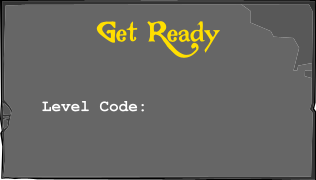
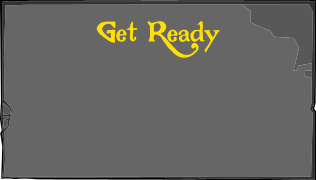
update

Changed region(s): [[0.1139, 0.5556, 0.2848, 0.6389], [0.3133, 0.5556, 0.4557, 0.6389]]

diff --git a/js/boot.js b/js/boot.js
@@ -18,3 +18,97 @@ var level = 1;
 var get_ready;
 var backgroundImage;
 var score = 0;
+const Level_Codes = 
+[
+'l3VIFNXL6O0',
+'l1GDCJTH4BU',
+'lDIIBX80DTS',
+'lZ4DJKCGM46',
+'lY8BUJAAHML',
+'l3DQ84AHPJ2',
+'lUATCLAZHAU',
+'lKPU91XGSMG',
+'lXPQ5V9CO5S',
+'lPXAA197342',
+'lUZLUV05WJ5',
+'lIHFREW7HFB',
+'l8I1NH0NLMS',
+'lL0LOD3SNZQ',
+'lV9HLCQJW0Z',
+'lWVJKG7WORV',
+'lGE5EEHX239',
+'lB9Z887UJ0P',
+'l2GYU2W1AKA',
+'lCFF6Z4PWAQ',
+'lS3F44JY4LG',
+'lMCY5EP0UDX',
+'lSVIXSLLG49',
+'l6PEUSYSJ3I',
+'lU6I3685MLA',
+'lA99B9759UZ',
+'lI6BN8BHK5E',
+'lLWB65SAYF1',
+'lRVWMYMRB4F',
+'l2VRIKKRJXL',
+'l6R96LV6DI4',
+'lZF72GXQZNZ',
+'l65EZUDIEPY',
+'lDA13UNFJIA',
+'lM55VJPWZXS',
+'l2BYN8X5WMB',
+'l477S23DCHQ',
+'lKZREX9NC48',
+'lT54PBR00R0',
+'lAMWC2NCB6O',
+'lECB7Q1YR31',
+'lIX4WJ175Q7',
+'lLH0I4E6BUP',
+'lK4W7EY3F3I',
+'l5Z5IV6Q7GE',
+'lJX9RNBGA9Y',
+'lY86UHYAJ5R',
+'l2G30XY0ZTZ',
+'lCFE5W9IQIP',
+'lIPJPM2J8DG',
+'lPBUTYDDH4Z',
+'lVS1P2DSMGY',
+'lRAKL3OBAHV',
+'lGKVTIJSUSR',
+'lNA5DFCGCME',
+'lPG3EV7U2KG',
+'lLG0Z00AF28',
+'lC2M94DQVTL',
+'lMDYO005UQ6',
+'l7NMKJOJ2UG',
+'lJ3ZAHFIEC8',
+'lRW5KJ9IBE2',
+'l38J7PF4HZO',
+'l40GRJBNOV2',
+'lE5SUVG3LY4',
+'lD4FBOJDP3F',
+'lVOIFB8UYQQ',
+'lBOB1L58LEI',
+'lV84THCBUN9',
+'l9P8JTWVPEM',
+'lMGQPWHO4VO',
+'lV051W4XM7C',
+'lR6LFWJE51K',
+'lR4GDSNGVH3',
+'lALPXUSWXCB',
+'l4IFHR3HVVH',
+'lSDMMDWK2A1',
+'lNN80D14B8D',
+'lDDACAL94S9',
+'lVEBAZGWPGN',
+'l8Y8HTQM86I',
+'l7ZK42H0DR8',
+'lFHQKVSBGZ9',
+'lS6Q1ER5H9L',
+'lS1HZG3STX1',
+'lDXVKCB2TB7',
+'lMUDNJEZOJH',
+'lBL1Z05VKX1',
+'lZ174NPKCBT',
+'lP41MV540WW',
+'lUMXVPC54CP'
+];

diff --git a/js/game.js b/js/game.js
@@ -70,13 +70,18 @@ function startLevel(scene)
      console.log(layer);
        get_ready = scene.add.image(config.width/2, config.height/1.5, 'level intro').setOrigin(0.5).setScale(1.5);;
      
-      scene.add.text(config.width*.4,  BLOCK_SIZE*5.5, 'LEVEL: '+level, {
+      scene.add.text(config.width*.3,  BLOCK_SIZE*7.3, 'LEVEL: '+level, {
         fontFamily: 'courier new',
-        fontSize: '36px',
+        fontSize: '24px',
         fontWeight: 'bold',
         color: 'white'
       });
-     
+      scene.add.text(config.width*.3,  BLOCK_SIZE*8.3, 'LEVEL CODE: '+Level_Codes[0], {
+        fontFamily: 'courier new',
+        fontSize: '24px',
+        fontWeight: 'bold',
+        color: 'white'
+      });
       scene.start_button2 = scene.add.sprite(config.width/2.5, config.height*.8, 'capsule').setOrigin(0.5).setScale(2.5);
       scene.start_button2
       .setInteractive()
